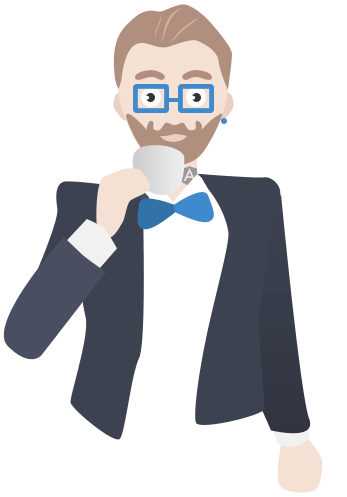
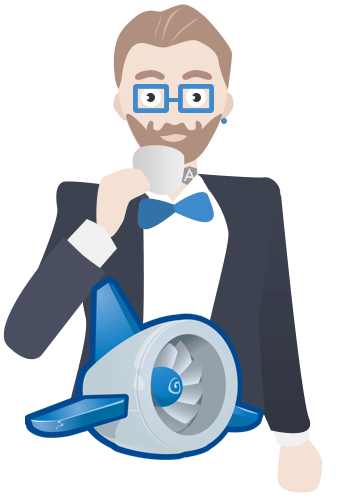
Tiny UI changes to show GAE.

Changed region(s): [[0.0576, 0.5433, 0.7781, 0.9356]]

diff --git a/src/main/webapp/app/home/home.component.html b/src/main/webapp/app/home/home.component.html
@@ -3,7 +3,7 @@
         <span class="hipster img-fluid rounded"></span>
     </div>
     <div class="col-md-9">
-        <h1 class="display-4">Welcome, Java Hipster!</h1>
+        <h1 class="display-4">Welcome, App Engine Java Hipster!</h1>
         <p class="lead">This is your homepage</p>
 
         <div [ngSwitch]="isAuthenticated()">

diff --git a/src/main/webapp/app/home/home.route.ts b/src/main/webapp/app/home/home.route.ts
@@ -7,6 +7,6 @@ export const HOME_ROUTE: Route = {
     component: HomeComponent,
     data: {
         authorities: [],
-        pageTitle: 'Welcome, Java Hipster!'
+        pageTitle: 'Welcome, App Engine Java Hipster!'
     }
 };

diff --git a/src/main/webapp/app/layouts/footer/footer.component.html b/src/main/webapp/app/layouts/footer/footer.component.html
@@ -1,3 +1,3 @@
 <div class="footer">
-    <p>This is your footer</p>
+    <p>This is a jHipster app running on Google App Engine Java8 Standard with Cloud SQL.</p>
 </div>
